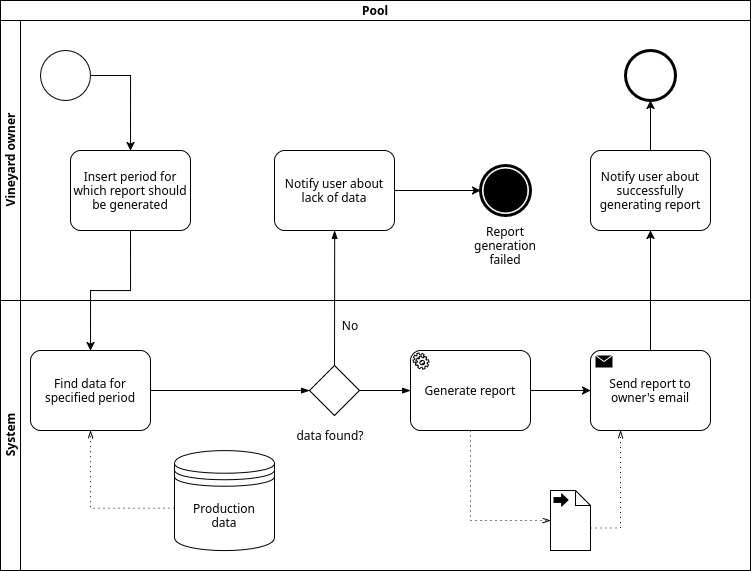
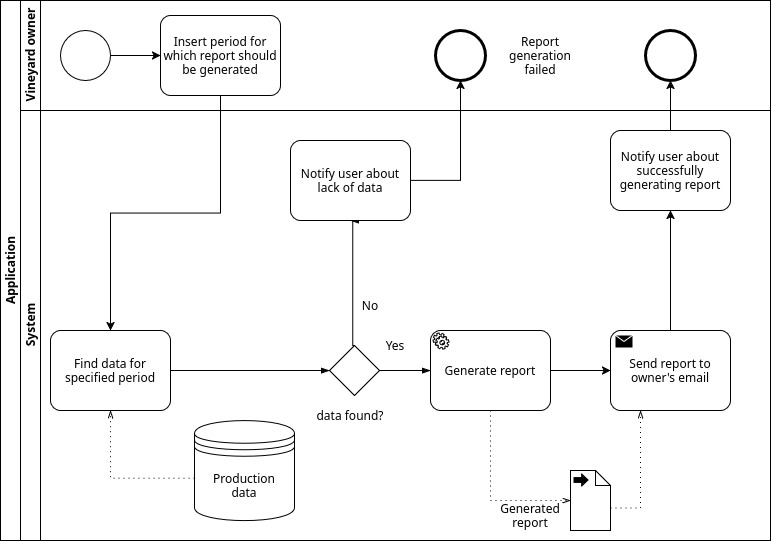
IN-335 IN-312: Fix owner's BPNM

diff --git a/docs/subchapters/bpnms.tex b/docs/subchapters/bpnms.tex
@@ -4,19 +4,19 @@ BPMN notation was used to ensure a thorough understanding and design of the key 
 \begin{figure}[ht]
     \centering
     \includegraphics[width=0.9\textwidth]{pictures/create_organization_bpnm.drawio.png}
-    \caption{A BMNM diagram presenting process of creating a new organization.}
+    \caption{A BPNM diagram presenting process of creating a new organization.}
     \label{fig:bpnm_organization}
 \end{figure}
 \begin{figure}[ht]
     \centering
     \includegraphics[width=0.9\textwidth]{pictures/generate_report_bpnm.jpg}
-    \caption{A BMNM diagram presenting process of generating a report.}
+    \caption{A BPNM diagram presenting process of generating a report.}
     \label{fig:bpnm_reports}
 \end{figure}
 \begin{figure}[ht]
 	\centering
 	\includegraphics[width=0.9\textwidth]{pictures/create_new_must_batch_BPNM.jpg}
-	\caption{A BMNM diagram presenting process of creating new must batch.}
+	\caption{A BPNM diagram presenting process of creating new must batch.}
 	\label{fig:bpnm_must_batch}
 \end{figure}
 \FloatBarrier
